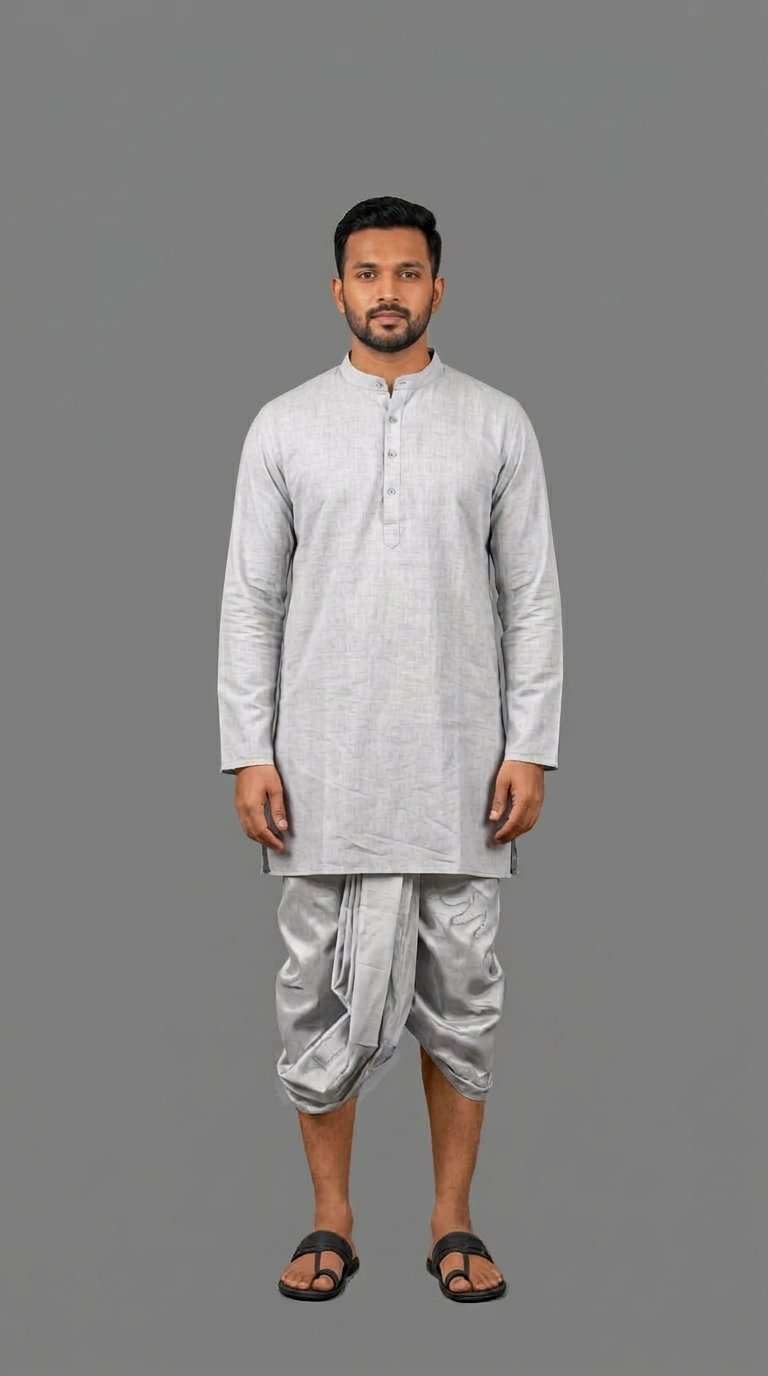
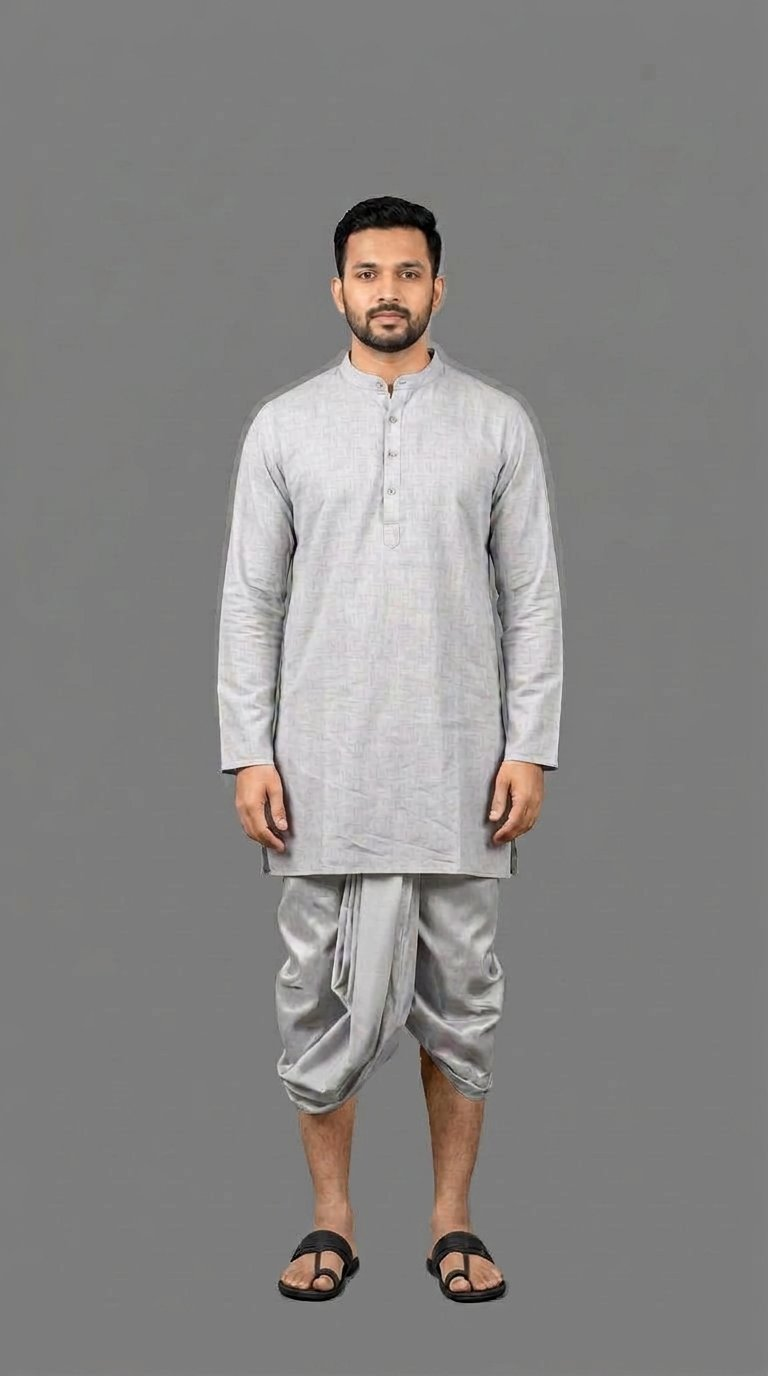
retone: M7-kurta-dhoti all 6 tones + M8-nehru-jacket-kurta 4 tones (fair/light-warm/light-tan/medium-brown) from clean bases; verified backdrop neutral, no glitch, flag M7 light-warm+ebony tone spacing

diff --git a/template/README.md b/template/README.md
@@ -54,6 +54,11 @@ below, so 71 - 3 = 68 is the real count.
 | Needs regeneration | M7, M8, M9, M10, M11, M15, W1, W2 (stale — made from old corrupted bases), W6–W17 (mostly never generated) |
 | Placeholders to overwrite | `light-tan/W11-jumpsuit.jpg`, `light-tan/W14-western-coord.jpg`, `light-tan/W16-jeans-top.jpg` are byte-identical copies of `base/` |
 
+FLAG (needs rebalance, generated but under-separated): `M7-kurta-dhoti` in `light-warm`
+(lum 144.8) sits only 5.1 pts from `light-tan` (139.7), and `ebony` (74.6) only 6.6 pts from
+`deep` (81.3) — the reference M6/M8 spacing is >=12 pts per step. Both to be regenerated lighter
+(light-warm) and much darker (ebony) so all 6 tones read as distinct.
+
 Remaining work: **124 images** = 48 stale (M7, M8, M9, M10, M11, M15, W1, W2 → 8 sets × 6 tones)
 + 4 missing for W5 (light-tan is a stale copy; medium-brown/deep/ebony absent)
 + 72 for W6–W17 (12 sets × 6 tones, incl. overwriting the 3 `light-tan` placeholders).
